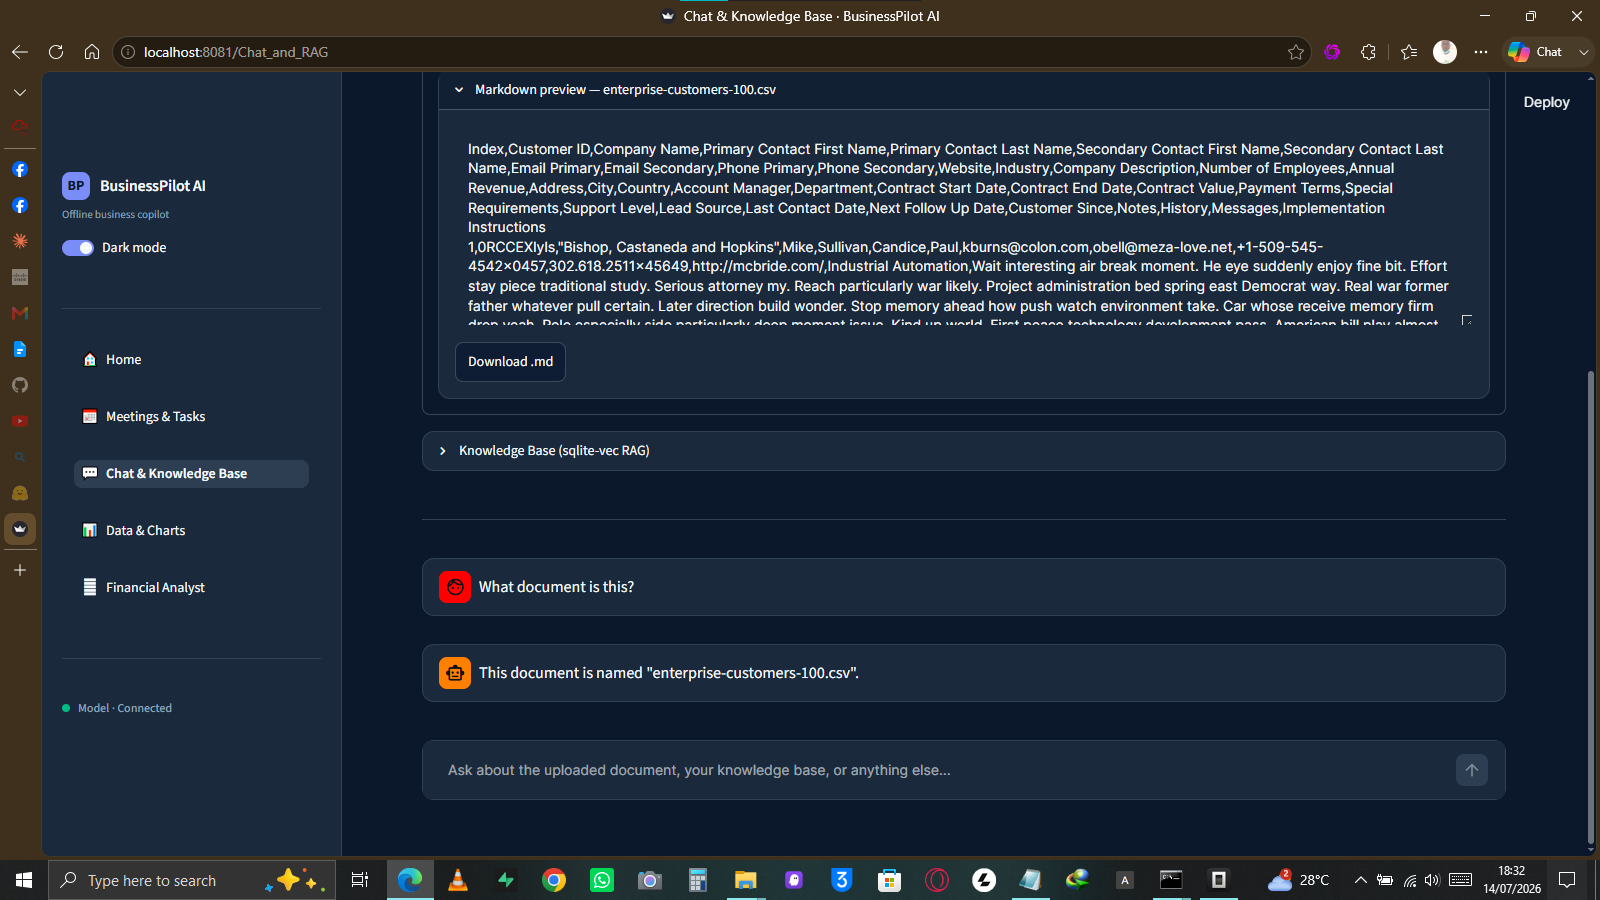
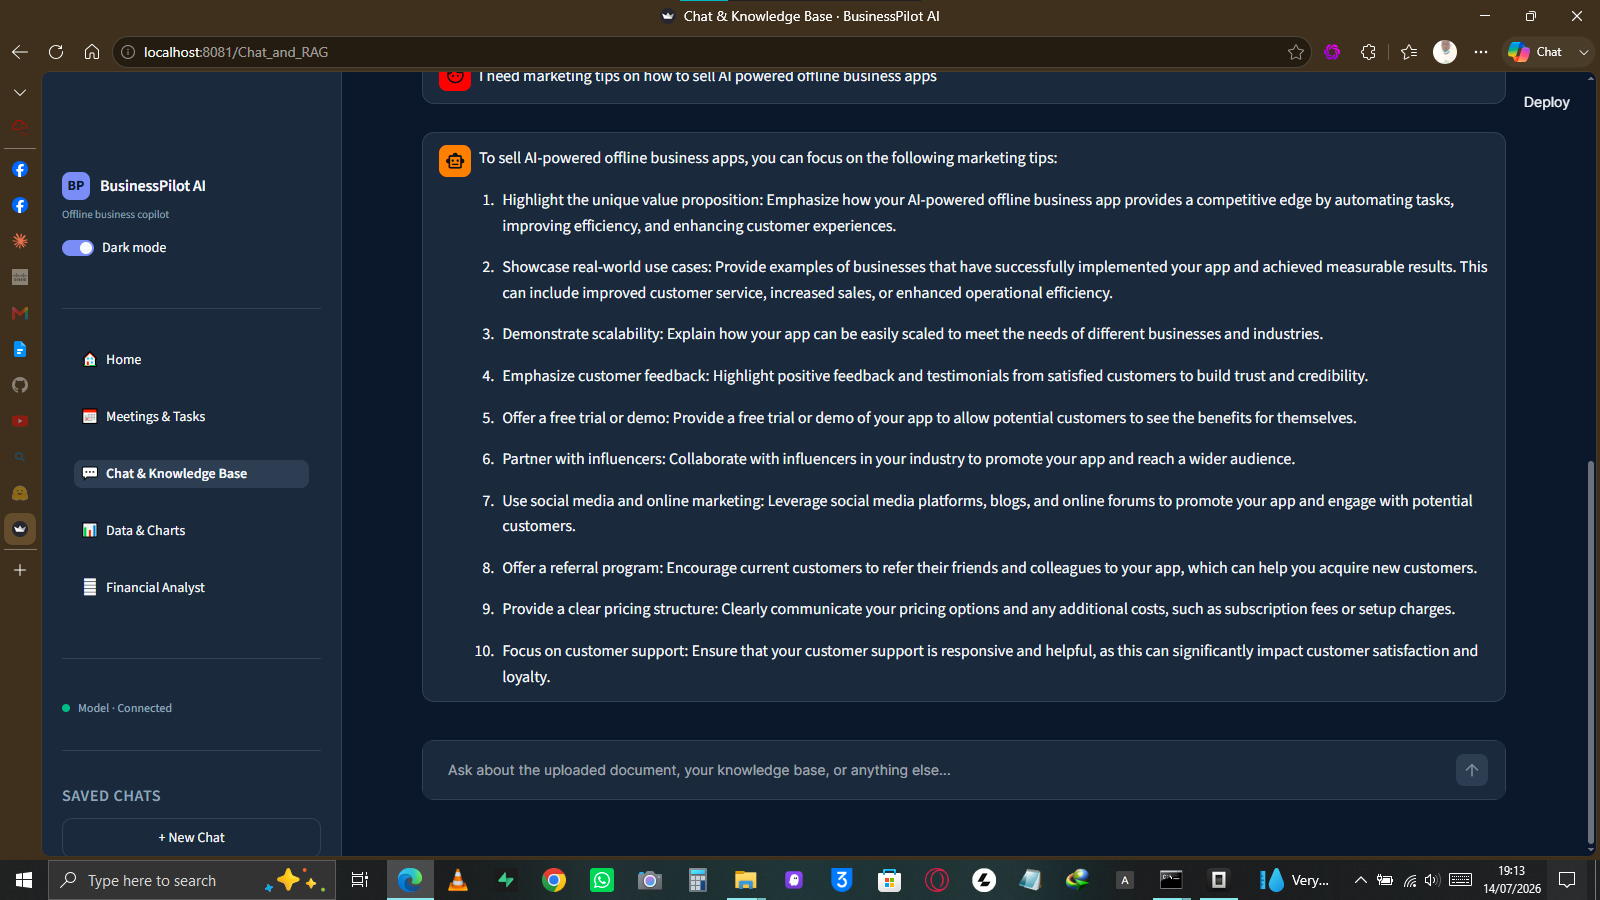
feat: add HR Management to KB, document classifier in Chat page

diff --git a/utils/seed_kb.py b/utils/seed_kb.py
@@ -131,6 +131,43 @@ _SEED_DOCS = {
         "communication styles (high-context vs low-context), time orientation, "
         "hierarchical vs egalitarian norms, and the role of extended family and community in business decisions."
     ),
+    "Human Resources Management": (
+        "Human Resources Management (HRM) is the strategic approach to managing an organization's "
+        "most valuable asset—its people. HRM encompasses the entire employee lifecycle: "
+        "recruitment and selection, onboarding, training and development, performance management, "
+        "compensation and benefits, employee relations, and offboarding. "
+        "Recruitment involves job analysis, writing job descriptions, sourcing candidates (internal and external), "
+        "screening resumes, conducting interviews (structured, behavioral, panel), "
+        "administering assessments, checking references, and extending offers. "
+        "Common recruitment channels include job boards, LinkedIn, recruitment agencies, campus hiring, "
+        "employee referrals, and social media. "
+        "Performance management includes setting KPIs and OKRs, conducting regular performance reviews, "
+        "providing feedback, managing underperformance, and recognizing high performers. "
+        "Training and development covers onboarding/orientation, skills training, leadership development, "
+        "mentorship programs, and continuing professional education. "
+        "Compensation management involves salary benchmarking, designing pay structures, "
+        "bonus and incentive schemes, benefits administration (health insurance, pensions, leave), "
+        "and ensuring pay equity. "
+        "Employee relations addresses workplace conflict resolution, disciplinary procedures, "
+        "grievance handling, union relations, and fostering a positive organizational culture. "
+        "HR metrics include time-to-hire, cost-per-hire, turnover rate, retention rate, "
+        "employee engagement score, absenteeism rate, and training ROI. "
+        "Employment laws govern minimum wage, working hours, overtime, leave entitlements, "
+        "health and safety, non-discrimination, and termination procedures. "
+        "In the African context, HR practices must account for diverse labor laws across countries, "
+        "cultural attitudes toward hierarchy and authority, the role of extended family in employee obligations, "
+        "high youth unemployment requiring apprenticeship and internship programs, "
+        "and the growing gig economy and remote work trends. "
+        "Key African labor laws include Nigeria's Labour Act, Kenya's Employment Act, "
+        "South Africa's Basic Conditions of Employment Act and Employment Equity Act, "
+        "and Ghana's Labour Act 2003. "
+        "HR challenges in Africa include skills shortages in specialized fields, "
+        "brain drain to developed countries, informal sector employment (over 80% in some economies), "
+        "and managing diverse workforces across multiple language and cultural groups. "
+        "Strategic HRM practices like workforce planning, talent management, succession planning, "
+        "and employer branding are increasingly adopted by African organizations "
+        "to compete for talent in a globalized market."
+    ),
 }
 
 

diff --git a/pages/2_Chat_and_RAG.py b/pages/2_Chat_and_RAG.py
@@ -84,7 +84,7 @@ with st.container(border=True):
         st.session_state.md_name = uploaded.name
 
     if st.session_state.md_raw:
-        col_a, col_b, col_c, col_d = st.columns([1.2, 1.2, 1.2, 1])
+        col_a, col_b, col_c, col_d, col_e = st.columns([1.1, 1.1, 1.1, 1.1, 0.8])
         md_ok = bool(st.session_state.md_text)
         can_index = md_ok and len(st.session_state.md_text.strip()) >= 20
 
@@ -134,6 +134,28 @@ with st.container(border=True):
                 st.session_state.md_name = ""
                 st.session_state.md_text = ""
                 st.session_state.pop("_insight", None)
+                st.session_state.pop("_classification", None)
+                st.rerun()
+
+        with col_e:
+            if st.button("Classify", disabled=not md_ok, use_container_width=True):
+                with st.spinner("Classifying..."):
+                    classify_prompt = (
+                        f"Analyze this document titled '{st.session_state.md_name}':\n\n"
+                        f"{st.session_state.md_text[:2000]}\n\n"
+                        "Identify recurring keywords and determine the document category. "
+                        "Respond in exactly this format:\n"
+                        "CATEGORY: [one of: Management, Marketing, Finance, Human Resources, Legal, Business Politics, Technical, General]\n"
+                        "KEYWORDS: [3-5 most frequent/relevant keywords comma-separated]\n"
+                        "REASON: [1 sentence explaining why based on keyword patterns]"
+                    )
+                    classification = ai_engine.query_model(
+                        classify_prompt,
+                        "You are a document analyst. Classify the document type based on keyword patterns.",
+                    )
+                    st.session_state["_classification"] = (
+                        classification.text if classification.ok else f"Error: {classification.error}"
+                    )
                 st.rerun()
 
         # Status pills
@@ -142,6 +164,8 @@ with st.container(border=True):
             status_pills.append(theme.status_badge("Converted", "success"))
         if st.session_state.get("_insight"):
             status_pills.append(theme.status_badge("Insight ready", "success"))
+        if st.session_state.get("_classification"):
+            status_pills.append(theme.status_badge("Classified", "warning"))
         st.markdown("&nbsp;&nbsp;" + " ".join(status_pills), unsafe_allow_html=True)
 
         if st.session_state.md_text:
@@ -157,6 +181,10 @@ with st.container(border=True):
         if st.session_state.get("_insight"):
             with st.expander("AI Insight", expanded=True):
                 st.markdown(st.session_state["_insight"])
+
+        if st.session_state.get("_classification"):
+            with st.expander("Document Classification", expanded=True):
+                st.markdown(st.session_state["_classification"])
     else:
         theme.empty_state(
             icon_name="file-upload",
